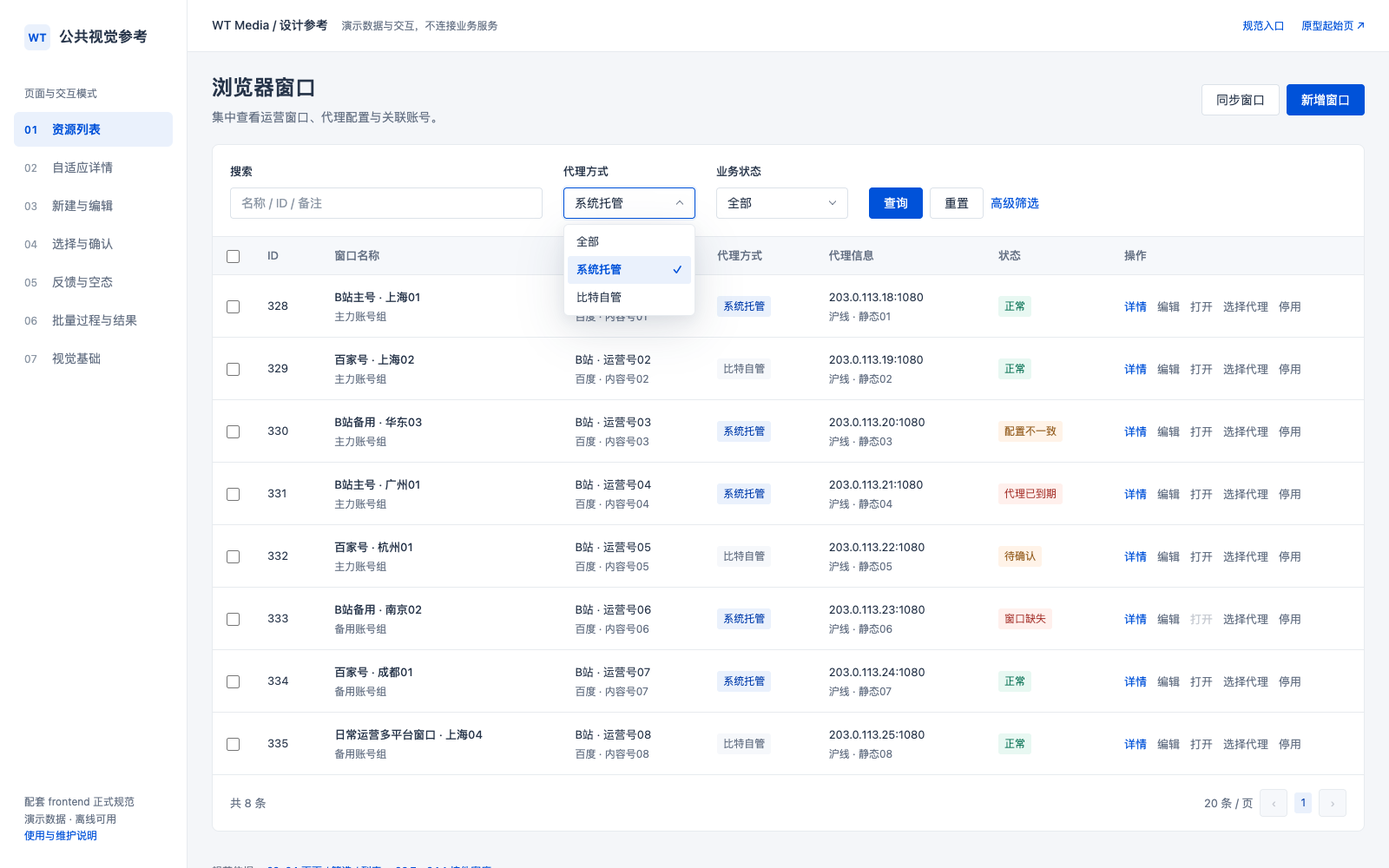
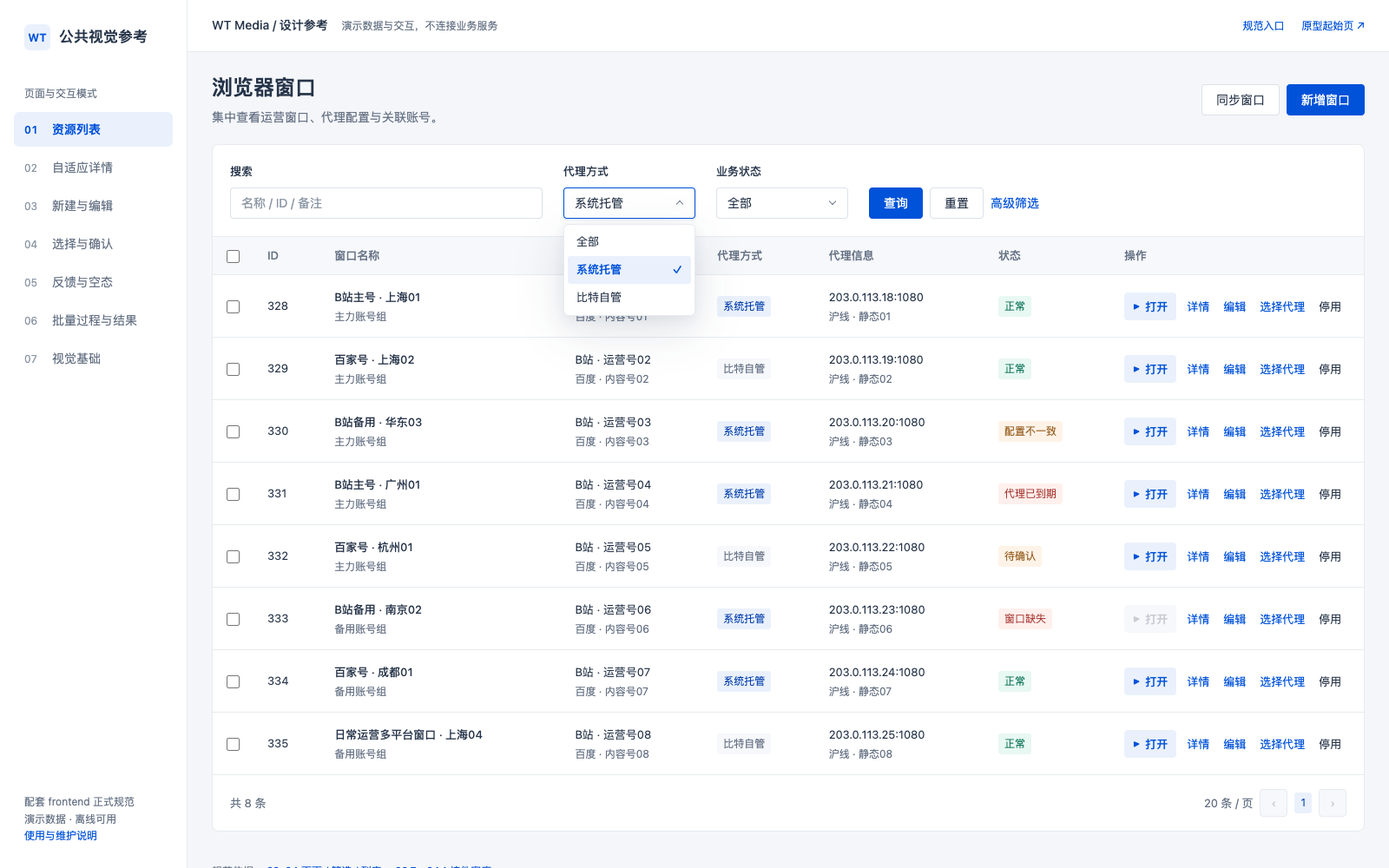
docs(CHG-20261028-099): emphasize primary row actions in prototypes

diff --git a/example/common/index.html b/example/common/index.html
@@ -283,15 +283,14 @@
                       </td>
                       <td>
                         <div class="ex-row-actions">
+<button class="ex-text-button ex-row-primary" data-local-note="打开窗口是本机业务能力；本页仅示范按钮状态。" ><span class="ex-action-icon" aria-hidden="true">▶</span><span>打开</span></button>
                           <button class="ex-text-button" data-open="detail" data-record="B站主号 · 上海01">
                             详情
                           </button>
                           <button class="ex-text-button" data-open="edit" data-record="B站主号 · 上海01">
                             编辑
                           </button>
-                          <button class="ex-text-button" data-local-note="打开窗口是本机业务能力；本页仅示范按钮状态。" >
-                            打开
-                          </button>
+
                           <button class="ex-text-button" data-open="picker" data-record="B站主号 · 上海01">
                             选择代理
                           </button>
@@ -340,15 +339,14 @@
                       </td>
                       <td>
                         <div class="ex-row-actions">
+<button class="ex-text-button ex-row-primary" data-local-note="打开窗口是本机业务能力；本页仅示范按钮状态。" ><span class="ex-action-icon" aria-hidden="true">▶</span><span>打开</span></button>
                           <button class="ex-text-button" data-open="detail" data-record="百家号 · 上海02">
                             详情
                           </button>
                           <button class="ex-text-button" data-open="edit" data-record="百家号 · 上海02">
                             编辑
                           </button>
-                          <button class="ex-text-button" data-local-note="打开窗口是本机业务能力；本页仅示范按钮状态。" >
-                            打开
-                          </button>
+
                           <button class="ex-text-button" data-open="picker" data-record="百家号 · 上海02">
                             选择代理
                           </button>
@@ -397,15 +395,14 @@
                       </td>
                       <td>
                         <div class="ex-row-actions">
+<button class="ex-text-button ex-row-primary" data-local-note="打开窗口是本机业务能力；本页仅示范按钮状态。" ><span class="ex-action-icon" aria-hidden="true">▶</span><span>打开</span></button>
                           <button class="ex-text-button" data-open="detail" data-record="B站备用 · 华东03">
                             详情
                           </button>
                           <button class="ex-text-button" data-open="edit" data-record="B站备用 · 华东03">
                             编辑
                           </button>
-                          <button class="ex-text-button" data-local-note="打开窗口是本机业务能力；本页仅示范按钮状态。" >
-                            打开
-                          </button>
+
                           <button class="ex-text-button" data-open="picker" data-record="B站备用 · 华东03">
                             选择代理
                           </button>
@@ -454,15 +451,14 @@
                       </td>
                       <td>
                         <div class="ex-row-actions">
+<button class="ex-text-button ex-row-primary" data-local-note="打开窗口是本机业务能力；本页仅示范按钮状态。" ><span class="ex-action-icon" aria-hidden="true">▶</span><span>打开</span></button>
                           <button class="ex-text-button" data-open="detail" data-record="B站主号 · 广州01">
                             详情
                           </button>
                           <button class="ex-text-button" data-open="edit" data-record="B站主号 · 广州01">
                             编辑
                           </button>
-                          <button class="ex-text-button" data-local-note="打开窗口是本机业务能力；本页仅示范按钮状态。" >
-                            打开
-                          </button>
+
                           <button class="ex-text-button" data-open="picker" data-record="B站主号 · 广州01">
                             选择代理
                           </button>
@@ -511,15 +507,14 @@
                       </td>
                       <td>
                         <div class="ex-row-actions">
+<button class="ex-text-button ex-row-primary" data-local-note="打开窗口是本机业务能力；本页仅示范按钮状态。" ><span class="ex-action-icon" aria-hidden="true">▶</span><span>打开</span></button>
                           <button class="ex-text-button" data-open="detail" data-record="百家号 · 杭州01">
                             详情
                           </button>
                           <button class="ex-text-button" data-open="edit" data-record="百家号 · 杭州01">
                             编辑
                           </button>
-                          <button class="ex-text-button" data-local-note="打开窗口是本机业务能力；本页仅示范按钮状态。" >
-                            打开
-                          </button>
+
                           <button class="ex-text-button" data-open="picker" data-record="百家号 · 杭州01">
                             选择代理
                           </button>
@@ -568,15 +563,14 @@
                       </td>
                       <td>
                         <div class="ex-row-actions">
+<button class="ex-text-button ex-row-primary" data-local-note="打开窗口是本机业务能力；本页仅示范按钮状态。" disabled><span class="ex-action-icon" aria-hidden="true">▶</span><span>打开</span></button>
                           <button class="ex-text-button" data-open="detail" data-record="B站备用 · 南京02">
                             详情
                           </button>
                           <button class="ex-text-button" data-open="edit" data-record="B站备用 · 南京02">
                             编辑
                           </button>
-                          <button class="ex-text-button" data-local-note="打开窗口是本机业务能力；本页仅示范按钮状态。" disabled>
-                            打开
-                          </button>
+
                           <button class="ex-text-button" data-open="picker" data-record="B站备用 · 南京02">
                             选择代理
                           </button>
@@ -625,15 +619,14 @@
                       </td>
                       <td>
                         <div class="ex-row-actions">
+<button class="ex-text-button ex-row-primary" data-local-note="打开窗口是本机业务能力；本页仅示范按钮状态。" ><span class="ex-action-icon" aria-hidden="true">▶</span><span>打开</span></button>
                           <button class="ex-text-button" data-open="detail" data-record="百家号 · 成都01">
                             详情
                           </button>
                           <button class="ex-text-button" data-open="edit" data-record="百家号 · 成都01">
                             编辑
                           </button>
-                          <button class="ex-text-button" data-local-note="打开窗口是本机业务能力；本页仅示范按钮状态。" >
-                            打开
-                          </button>
+
                           <button class="ex-text-button" data-open="picker" data-record="百家号 · 成都01">
                             选择代理
                           </button>
@@ -682,15 +675,14 @@
                       </td>
                       <td>
                         <div class="ex-row-actions">
+<button class="ex-text-button ex-row-primary" data-local-note="打开窗口是本机业务能力；本页仅示范按钮状态。" ><span class="ex-action-icon" aria-hidden="true">▶</span><span>打开</span></button>
                           <button class="ex-text-button" data-open="detail" data-record="日常运营多平台窗口 · 上海04">
                             详情
                           </button>
                           <button class="ex-text-button" data-open="edit" data-record="日常运营多平台窗口 · 上海04">
                             编辑
                           </button>
-                          <button class="ex-text-button" data-local-note="打开窗口是本机业务能力；本页仅示范按钮状态。" >
-                            打开
-                          </button>
+
                           <button class="ex-text-button" data-open="picker" data-record="日常运营多平台窗口 · 上海04">
                             选择代理
                           </button>
@@ -1408,15 +1400,14 @@
                       5项全平铺
                     </p>
                     <div class="ex-row-actions">
+<button class="ex-text-button ex-row-primary" data-local-note="打开状态示例"><span class="ex-action-icon" aria-hidden="true">▶</span><span>打开</span></button>
                       <button class="ex-text-button" data-open="detail">
                         详情
                       </button>
                       <button class="ex-text-button" data-open="edit">
                         编辑
                       </button>
-                      <button class="ex-text-button" data-local-note="打开状态示例">
-                        打开
-                      </button>
+
                       <button class="ex-text-button" data-open="picker">
                         设置代理
                       </button>
@@ -1430,15 +1421,14 @@
                       超过5项才收纳
                     </p>
                     <div class="ex-row-actions">
+<button class="ex-text-button ex-row-primary" data-local-note="打开状态示例"><span class="ex-action-icon" aria-hidden="true">▶</span><span>打开</span></button>
                       <button class="ex-text-button" data-open="detail">
                         详情
                       </button>
                       <button class="ex-text-button" data-open="edit">
                         编辑
                       </button>
-                      <button class="ex-text-button" data-local-note="打开状态示例">
-                        打开
-                      </button>
+
                       <button class="ex-text-button" data-open="picker">
                         设置代理
                       </button>

diff --git a/example/common/example.css b/example/common/example.css
@@ -97,7 +97,7 @@ h2,h3 { font-size: 14px; font-weight: 600; }
 .ex-text-button:disabled { color: var(--wt-color-text-disabled); }
 .ex-text-button.danger { color: var(--wt-color-text-secondary); }
 .ex-text-button.danger:hover { color: var(--wt-color-danger-text); }
-.ex-row-actions { display: inline-flex; gap: 12px; align-items: center; }
+.ex-row-actions { display: inline-flex; gap: 8px; align-items: center; }
 .ex-row-actions button { font-size: 13px; }
 .ex-panel { background: var(--wt-color-bg-container); border: 1px solid var(--wt-color-border); border-radius: 8px; min-width: 0; }
 .ex-panel-pad { padding: 24px; }
@@ -261,11 +261,16 @@ progress::-webkit-progress-value { background: var(--wt-color-primary); border-r
 @media (prefers-reduced-motion: reduce) { * { scroll-behavior: auto !important; animation: none !important; transition: none !important; } }
 
 /* 控件评审修订：次要动作、浮动菜单、统一选择器、原位信息。 */
-.ex-row-actions .ex-text-button { color: var(--wt-color-text-secondary); }
+.ex-row-actions .ex-text-button { display: inline-flex; align-items: center; justify-content: center; min-height: 32px; padding: 4px; border-radius: 4px; color: var(--wt-color-primary); line-height: 20px; }
 .ex-row-actions .ex-text-button[data-open="detail"] { color: var(--wt-color-primary); }
-.ex-row-actions .ex-text-button:hover:not(:disabled) { color: var(--wt-color-primary); }
-.ex-row-actions .ex-text-button.danger:hover:not(:disabled) { color: var(--wt-color-danger-text); }
-.ex-row-actions .ex-text-button:disabled { color: var(--wt-color-text-disabled); }
+.ex-row-actions .ex-text-button:hover:not(:disabled) { color: var(--wt-color-primary-hover); background: var(--wt-color-primary-light); }
+.ex-row-actions .ex-text-button.danger { color: var(--wt-color-text-primary); }
+.ex-row-actions .ex-text-button.danger:hover:not(:disabled) { color: var(--wt-color-danger-text); background: var(--wt-color-danger-bg); }
+.ex-row-actions .ex-text-button:disabled { color: var(--wt-color-text-disabled); background: transparent; }
+.ex-row-actions .ex-row-primary { gap: 6px; padding-inline: 10px; background: var(--wt-color-primary-light); font-weight: 500; }
+.ex-row-actions .ex-row-primary:disabled { background: var(--wt-color-bg-subtle); }
+.ex-action-icon { font-size: 10px; line-height: 1; }
+.ex-row-actions .ex-menu-trigger .ex-chevron { margin-left: 6px; }
 .ex-row-actions .ex-text-button[aria-expanded="true"] { color: var(--wt-color-primary); }
 .ex-chevron { display: inline-block; width: 6px; height: 6px; border-right: 1.5px solid currentColor; border-bottom: 1.5px solid currentColor; transform: rotate(45deg); flex-shrink: 0; margin: -3px 2px 0 8px; }
 [aria-expanded="true"] > .ex-chevron { transform: rotate(225deg); margin-top: 3px; }

diff --git a/delivery/active/CHG-20261028-099/checkpoint.md b/delivery/active/CHG-20261028-099/checkpoint.md
@@ -1,16 +1,14 @@
 # CHG-20261028-099 最新续接状态
 
-更新时间：2026-10-28 13:42（Asia/Shanghai）。CHG：VERIFYING。公共HTML四项评审修订已验证，供人工评审。
+更新时间：2026-10-28 14:15（Asia/Shanghai）。CHG：VERIFYING。公共原型按用户确认的新行操作层级完成修订。
 
-## 最新请求：公共示例四项截图反馈
+## 最新请求：按照推荐规范修改原型
 
-已完成Task 12：少量账号与代理属性原位展开，完整详情才进入下一层；次要行操作改中性色、详情导航保留蓝色，更多为浮动菜单（5项阈值不变）；统一可键盘操作的选择器浮层；修复筛选form被display:contents破坏布局的问题，横距24px/行距20px/标签8px，窄屏整组换行。
+Task 13完成：窗口8行和基础示例2组的打开动作置前，浅蓝底/品牌蓝/图标/32px热区；详情/编辑/设置清晰蓝色与悬停浅底，停用深色/悬停红色，禁用独立浅灰。更多保留浮动菜单，5项门槛不变。用户本轮确认明确覆盖上轮灰色次操作方向；对应架构视觉§3.7.3/§3.7.7和common复用说明已同步。
 
-入口仍为 `example/common/index.html`；新增 `example/common/controls.js`，起始页与复用说明已同步；正式frontend四份规范回写对应条款。所有内容为纯本地HTML参考，不进入运行仓依赖。
+入口仍 `example/common/index.html`。新增专项13项通过（修前5项失败），全场景101项、控件28项、静态8组/37Token、15索引文档校验及diff检查通过。证据 `evidence/row-action-priority-review.md` 与 `evidence/row-action-priority/`；既有结果与必要截图同步当前版本，历史由Git保存。
 
-验证：5项修前失败复现后转绿；28项控件专项、101项全场景、8组静态核验（37个Token一致）、15索引文档校验、diff检查通过。DPR1下覆盖1600×1000、1366×900、390×844；无脚本错误/外部请求。证据：`evidence/frontend-controls-review.md`与`evidence/frontend-controls/`。原Task 11通用核验与截图已更新到当前版本，历史由Git保留。
-
-下一步按用户新评审反馈继续；运行仓公共组件/窗口代理新视觉迁移、真实比特/目标网络/整体集成仍未完成，不能宣称整个CHG完成。frontend规范14项审批与common/proto目录决策继续有效。两份无关社媒报告保留，不能纳入提交。
+此前详情原位展开、完整详情分层、选择器、筛选间距与common/proto目录决策保持。全CHG仍待运行仓视觉适配与真实比特/网络/整体集成验收；本轮未修改业务代码，不合并发布。两份无关社媒报告保留，不纳入提交。
 
 ## 本轮完成
 

diff --git a/delivery/active/CHG-20261028-099/evidence/row-action-priority-review.md b/delivery/active/CHG-20261028-099/evidence/row-action-priority-review.md
@@ -1,0 +1,22 @@
+# 行操作层级原型修改验收
+
+时间：2026-10-28 14:15（Asia/Shanghai）。Task 13，依据用户明确确认“按照推荐规范进行修改原型”。本次决定覆盖Task 12的灰色次操作建议。
+
+## 已落地
+
+- 窗口列表8行与基础示例2组：打开置前，浅蓝底/品牌蓝/播放标识，32px热区；通过显式 `ex-row-primary` 标记主要任务，不按文案猜测业务优先级。
+- 详情、编辑、设置代理使用清晰品牌蓝，悬停浅蓝底；文字按钮补足点击区域，行间距8px；更多品牌蓝、32px热区，浮动菜单保持可操作。
+- 停用默认主文字色，悬停语义红色浅底，最终确认仍危险按钮；禁用独立浅灰与真实不可点击。5项门槛不变。
+- 架构视觉§3.7.3/§3.7.7、公共复用说明同步；现有灰色断言更新为最新审批规则。页面级实心主按钮、业务事件、权限与本地演示边界未改变。
+
+参考上轮已核对的[Ant Design按钮层级](https://ant.design/components/button/)与[Carbon表格操作](https://carbondesignsystem.com/components/data-table/usage/)原则，具体颜色、尺寸和5项门槛取本地已确认规范，不复制外部阈值。
+
+## 核验事实
+
+修改前5项失败，见[RED结果](row-action-priority/red-results.json)：首位主动作、浅底/热区、蓝色次动作、悬停底、危险默认色。修改后[专项结果](row-action-priority/results.json)13项PASS，含1366与390视口无页面溢出、5项平铺、菜单执行与焦点恢复、禁用和0脚本错误。
+
+执行：从Workspace根目录运行 `node delivery/active/CHG-20261028-099/evidence/row-action-priority/verify.cjs`（Playwright与本机Chrome，依赖经NODE_PATH指定）。原型全场景脚本101项PASS，控件专项28项PASS，0错误/外部网络请求；静态核验8组（37个Token一致）、文档校验15索引、diff空白检查PASS。既有核验截图与JSON同步到本轮，历史由Git保留。
+
+人工核对：[列表1600](row-action-priority/list-1600.png)、[两组操作1600](row-action-priority/actions-1600.png)。DPR1、100%缩放；检查主要动作、蓝色可用动作、危险/禁用对比、完整热区与操作列未遮挡。图片为必要核验，不批量导出原型全部页面。
+
+未修改运行仓，未推送/合并/发布。CHG仍VERIFYING；本轮交付公共原型与规范，实际业务页面新视觉迁移与真实比特/网络验收尚待继续。

diff --git a/docs/standards/frontend/前端架构与视觉规范.md b/docs/standards/frontend/前端架构与视觉规范.md
@@ -1054,7 +1054,7 @@ font-family:
 
 ### 3.7.3 Text
 
-低层级、高频或表格行操作。样式：无背景、无边框。 同一行的次要执行动作默认使用次级文字色，悬停/焦点增强；详情导航或该区域明确的重点轻操作可用品牌蓝，避免整排动作都呈同一强调级别。禁用态仍明确区分，危险动作按§3.7.5。
+低层级、高频或表格行操作。常规可执行动作使用清晰品牌蓝，默认无底框，悬停增加浅品牌底；不以辅助灰表达可执行动作。行内按实际高频任务突出至多一个主要轻按钮（如窗口打开、代理检测）：浅品牌底、品牌色文字、可配功能图标，置于行操作首位。它与页面级实心主按钮有明确层级。行内控件热区高32px，字号13–14px，操作间距8–12px；常规文字动作保留完整热区，不能只有文字像素可点。危险动作默认主文字色、悬停转语义红色浅底，最终确认按§3.7.5；禁用独立浅灰、真实不可执行，Loading预留宽度。
 
 ### 3.7.4 Link Primary
 
@@ -1075,7 +1075,7 @@ font-family:
 
 ### 3.7.7 更多菜单
 
-超过5项才收纳的门槛仍见AdminUI§4.3。触发器用文字“更多”与小下箭头，使用TDesign Dropdown等公共能力；弹出独立白底轻边框菜单，不以原生details三角展开、推高表格行或撑开操作区。菜单项约32px高、横向内边距10–12px，菜单最小宽160px，受视口约束可向上展开。危险项可分组，实际权限、禁用与Loading完整保留。菜单键盘/关闭行为见交互§5.6。
+超过5项才收纳的门槛仍见AdminUI§4.3。触发器用清晰品牌蓝的“更多”与小下箭头，保持32px完整热区、悬停浅底；使用TDesign Dropdown等公共能力；弹出独立白底轻边框菜单，不以原生details三角展开、推高表格行或撑开操作区。菜单项约32px高、横向内边距10–12px，菜单最小宽160px，受视口约束可向上展开。危险项可分组，实际权限、禁用与Loading完整保留。菜单键盘/关闭行为见交互§5.6。
 
 ---
 

diff --git a/example/common/README.md b/example/common/README.md
@@ -63,6 +63,8 @@
 
 ## 本轮评审修订
 
-少量账号名单和代理补充属性在当前区域展开，完整详情才打开新层。行内详情导航保留蓝色，编辑/打开/设置等次要动作使用中性色；超过5项才收纳，更多采用浮动菜单。筛选横距24px、行距20px、标签间8px，容器不足时整组换行。原型选择器展示统一选项面板与键盘状态，原始select继续承载值、重置和change事件。
+少量账号名单和代理补充属性在当前区域展开，完整详情才打开新层。窗口主要行操作“打开”置前，使用32px浅蓝轻按钮；详情/编辑/设置等常规动作使用清晰品牌蓝、悬停浅底，停用用深色/悬停红色，禁用独立浅灰；超过5项才收纳，更多采用浮动菜单。筛选横距24px、行距20px、标签间8px，容器不足时整组换行。原型选择器展示统一选项面板与键盘状态，原始select继续承载值、重置和change事件。
 
 动态插入原型内容后调用 `WTControls.enhance(container)`；现有示例弹层已自动接入。制作新原型时先加载controls.js再加载example.js。完整详情进入下一层时保留原先筛选/选择，Esc优先关闭当前选项或菜单，不连带关闭父Dialog。
+
+用户最新确认覆盖上轮中性色建议：主要任务用浅底表达层级，其余可执行动作保持明确点击识别。复用时给该行的主要动作增加 `ex-row-primary`，不要通过按钮文案自动猜测业务优先级；每行至多一个主要轻按钮。

diff --git a/delivery/active/CHG-20261028-099/plan.md b/delivery/active/CHG-20261028-099/plan.md
@@ -114,3 +114,27 @@ Cloud / Desktop 共用 `wt-media-cloud/web`；当前 Cloud 与 Desktop 工作区
 ### 冲突与未确认项
 
 无阻断决策。完整详情仍可Dialog/Drawer按内容选择；少量信息避免无必要嵌套，不一律取消详情弹层。
+
+## 第六轮：行操作可发现性
+
+### 任务理解
+
+用户已确认上轮推荐，直接修改原型。将辅助灰行操作纠正为清晰蓝色，主要动作通过浅底和热区表达层级。
+
+### 当前事实与约束
+
+公共原型与规范上轮采用中性色次动作，用户认为太淡；本次明确覆盖该规则。5项门槛、权限/禁用与业务行为保持。
+
+### 计划修改
+
+- [x] 记录修前失败核验，窗口列表和基础示例的打开动作置前，浅蓝底、32px热区、功能标识；其余蓝色文字动作有悬停背景，危险/禁用区分。
+- [x] 更新正式行操作条款与复用说明，修订旧灰色断言，核对点击、菜单、视口和既有场景。
+- [x] 保存必要截图、验证结果及续接记录，独立本地提交。
+
+### 明确不修改
+
+不修改业务运行仓，不改变收纳阈值和真实执行，不合并发布。
+
+### 冲突与未确认项
+
+本次用户决定取代上轮灰色动作建议，无阻断。完整CHG仍待真实验收。

diff --git a/delivery/active/CHG-20261028-099/change.md b/delivery/active/CHG-20261028-099/change.md
@@ -104,3 +104,7 @@ risk: H
 ### Task 12：公共示例评审反馈修订
 
 按用户四项截图反馈，优化详情层级、文字动作与“更多”菜单、统一选择器、筛选间距。少量账号/资源补充信息在原位展开，完整详情才进入下一层；行操作减少整排品牌蓝且保留5项收纳阈值；下拉统一面板/焦点/键盘；修复代理选择筛选表单被display:contents破坏布局的问题。修改example/common与起始模板资源引用、对应frontend规则及验证，不进入业务运行仓。
+
+### Task 13：按确认的行操作层级修改公共原型
+
+用户确认采用“浅蓝主动作 + 蓝色次动作 + 明确热区的更多”。窗口行以打开为主要动作并置前，32px轻按钮，次操作保持品牌蓝与悬停浅底，停用深色/悬停红色，禁用独立浅灰；保留超过5项才收纳。修改公共HTML、配套规范与核验，不修改运行仓。主动作依据实际业务任务选择，其他页面不机械套用“打开”。
